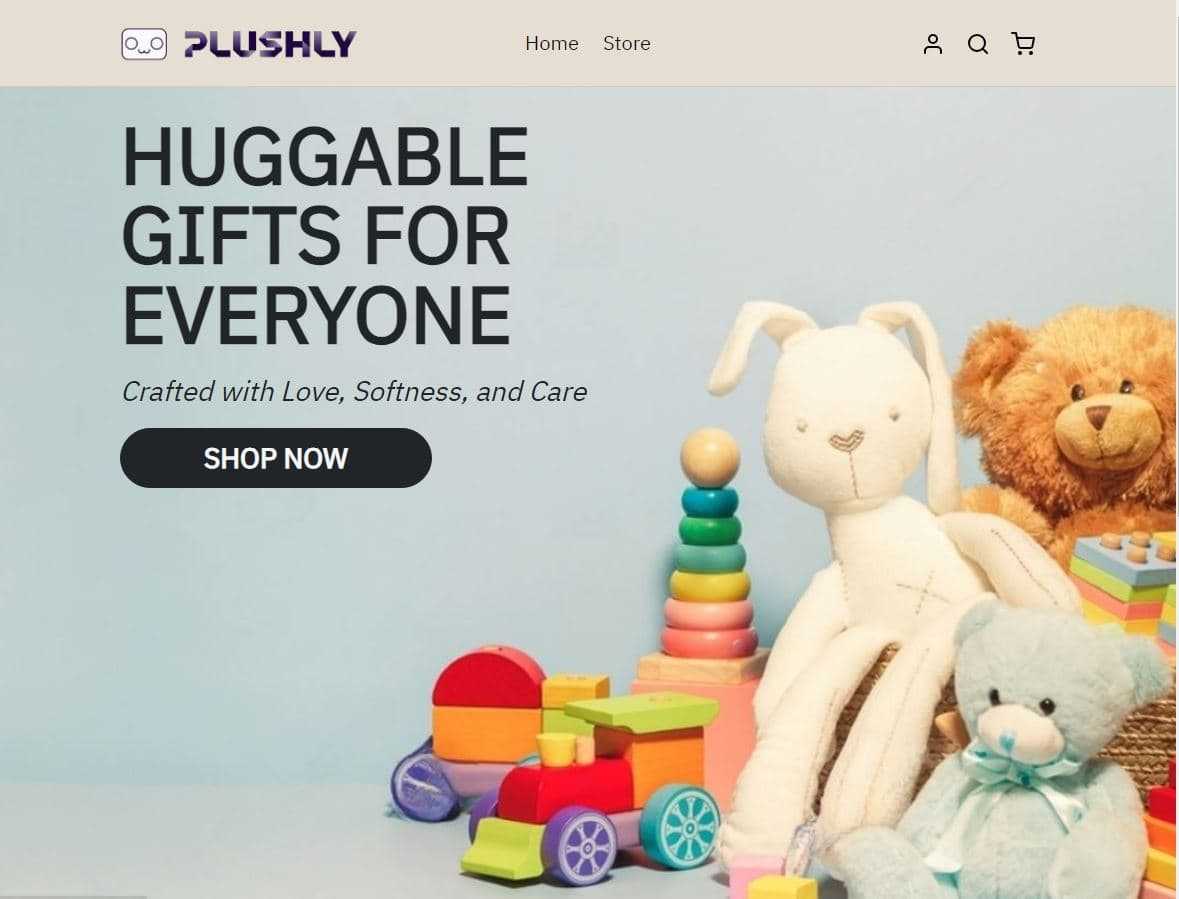
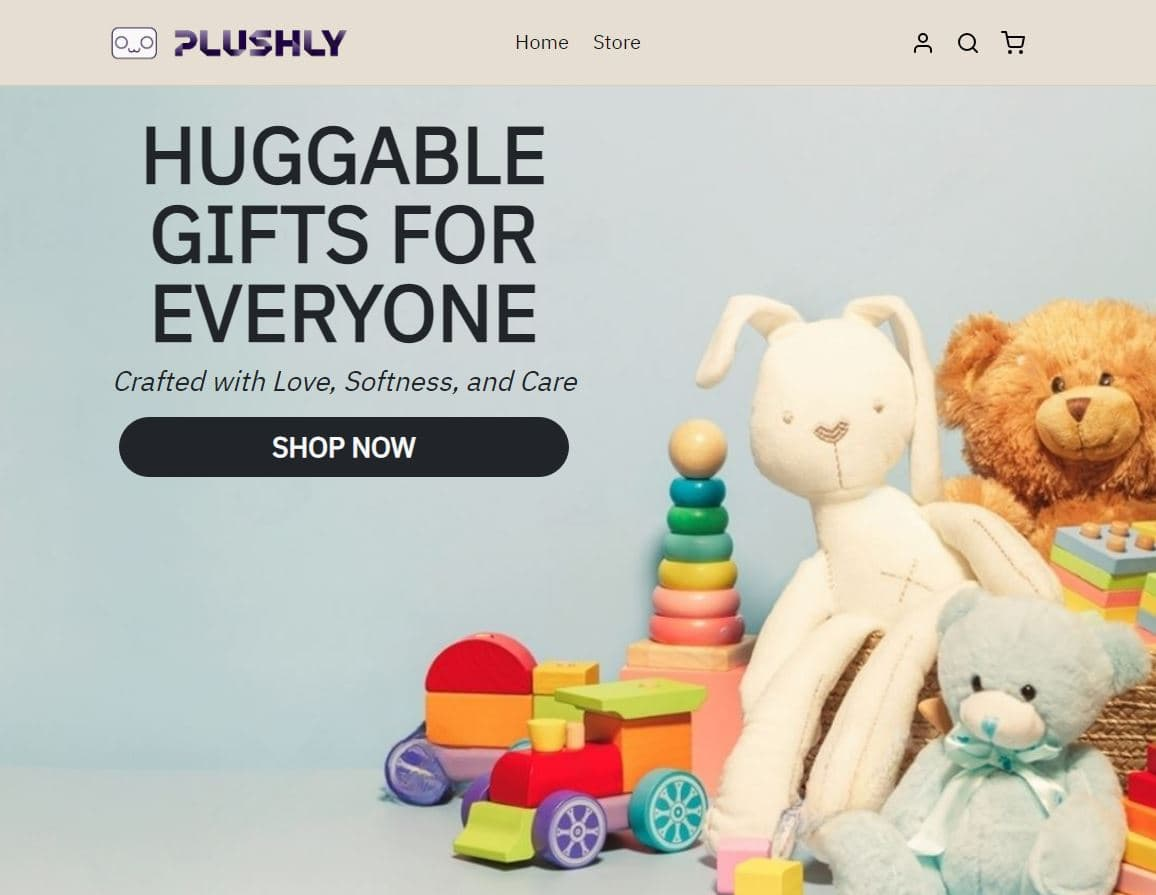
fix text center alignment

diff --git a/index.html b/index.html
@@ -93,18 +93,18 @@
     </header>
     <main>
       <section class="container-fluid bg-image vh-100">
-        <div class="container">
+        <div class="container-md">
           <div
-            class="d-flex flex-column col-8 col-md-4 align-items-start align-items-xl-center justify-content-md-center mt-5 pt-5 vh-50"
+            class="d-flex flex-column col-8 col-md-6 align-items-start align-items-lg-center justify-content-md-center mt-5 pt-5 vh-50"
             id="home-header"
           >
-            <h1 class="display-1 fw-bold lh-1">HUGGABLE GIFTS FOR EVERYONE</h1>
-            <p class="fs-3 fst-italic text-nowrap">
+            <h1 class="display-1 fw-bold lh-1 text-center">HUGGABLE GIFTS FOR EVERYONE</h1>
+            <p class="fs-3 fst-italic text-center">
               Crafted with Love, Softness, and Care
             </p>
             <a
               href="products.html"
-              class="text-decoration-none text-light btn rounded-pill btn-dark fw-bold fs-3 p-2 px-3 w-100"
+              class="text-decoration-none text-light btn rounded-pill btn-dark fw-bold fs-3 p-2 px-3 w-100 mw-450"
               >SHOP NOW</a
             >
           </div>

diff --git a/css/home.css b/css/home.css
@@ -13,6 +13,10 @@
   height: 50vh;
 }
 
+.mw-450 {
+  max-width: 450px;
+}
+
 .item-description {
   width: 50%;
   height: 100%;
